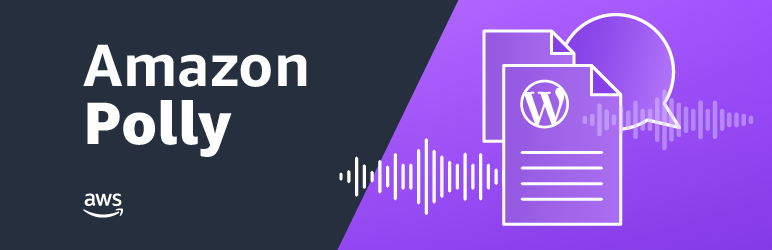
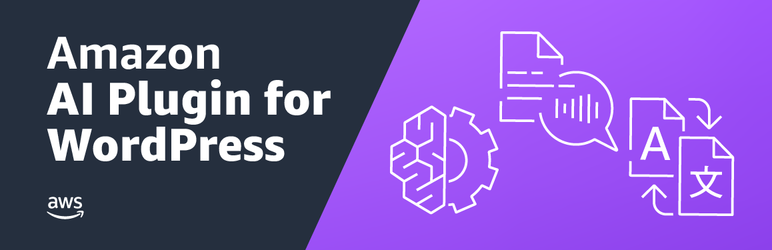
updated plugin `Amazon AI` version 2.6.3

Changed region(s): [[0.3731, 0.0, 0.9948, 1.0], [0.0622, 0.14, 0.4352, 0.644], [0.0622, 0.756, 0.1554, 0.896]]

diff --git a/wp-content/plugins/amazon-polly/public/css/amazonpolly-public.css b/wp-content/plugins/amazon-polly/public/css/amazonpolly-public.css
@@ -32,6 +32,9 @@ font-family: "Arial", Helvetica, sans-serif;
 font-size: .6em;
 text-align: right;
 }
+#amazon-polly-subscribe-tab {
+text-align: right;
+}
 #amazon-polly-trans-src {
 	font-weight: bold;
 }

diff --git a/wp-content/plugins/amazon-polly/public/class-amazonpolly-public.php b/wp-content/plugins/amazon-polly/public/class-amazonpolly-public.php
@@ -166,12 +166,16 @@ class Amazonpolly_Public {
 						}
 					}
 
+					$subscribe_part = $this->get_subscribe_part();
+
+
 					$polly_content = '
 					<table id="amazon-polly-audio-table">
 						<tr>
 						<td id="amazon-polly-audio-tab">
 							<div id="amazon-ai-player-label">' . $player_label . '</div>
 							' . $audio_part . '
+							<div id="amazon-polly-subscribe-tab">' . $subscribe_part . '</div>
 							<div id="amazon-polly-by-tab">' . $voice_by_part . '</div>
 						</td>
 						</tr>
@@ -246,12 +250,17 @@ class Amazonpolly_Public {
 		$link = esc_url( add_query_arg( 'amazonai-language', $language ));
 
 		$display = $common->get_language_display( $language );
+		$translate_option_flag_button = '<div class="amazon-ai-flag"><a href="' . $link . '"><img src="https://d12ee1u74lotna.cloudfront.net/images/flags/' . $language . '.png" class="amazon-ai-flag-image" alt="' . $language . ' flag"></a></div>';
+		$translate_option_label_button = '<div class="amazon-polly-trans-label"><a href="' . $link . '">' . $common->get_language_label($language) . '&emsp;</a></div>';
 
 		if (strcmp("Flag", $display) === 0) {
-			return '<div class="amazon-ai-flag"><a href="' . $link . '"><img src="https://d12ee1u74lotna.cloudfront.net/images/flags/' . $language . '.png" class="amazon-ai-flag-image" alt="' . $language . ' flag"></a></div>';
+			return $translate_option_flag_button;
+		} elseif (strcmp("Label", $display) === 0) {
+			return $translate_option_label_button;
 		} else {
-			return '<div class="amazon-polly-trans-label"><a href="' . $link . '">' . $common->get_language_label($language) . '&emsp;</a></div>';
+			return $translate_option_flag_button . $translate_option_label_button;
 		}
+
 	}
 
 
@@ -271,13 +280,37 @@ class Amazonpolly_Public {
 			$new_audio_location = str_replace( '.mp3', $language_code . '.mp3', $audio_location );
 		}
 
+		$common = new AmazonAI_Common();
+		$controlsList = '';
+		if ( !$common->is_audio_download_enabled() ) {
+			$controlsList = ' controlsList="nodownload" ';
+		}
+
 		$response = '<div id="amazon-ai-player-container">
-			<audio class="amazon-ai-player" id="amazon-ai-player" preload="none" controls ' . $autoplay . '>
+			<audio class="amazon-ai-player" id="amazon-ai-player" preload="none" controls ' . $autoplay . ' ' . $controlsList . '>
 				<source type="audio/mpeg" src="' . $new_audio_location . '">
 			</audio>
 		</div>';
 
 		return $response;
+	}
+
+	public function get_subscribe_part() {
+
+		$part = '';
+
+		$common = new AmazonAI_Common();
+		$is_subscribe_button_enabled = $common->is_subscribe_button_enabled();
+		if ($is_subscribe_button_enabled) {
+
+			$button_image = apply_filters('amazon_ai_subscribe_button_image', 'https://d12ee1u74lotna.cloudfront.net/images/subscribe_general.png');
+			$image = '<img src="' . $button_image . '" width="100" alt="Subscribe" >';
+			$link = esc_url($common->get_subscribe_link());
+
+			$part = '<a href="' . $link . '" target="_blank" rel="noopener noreferrer">' . $image . '</a>';
+		}
+
+		return $part;
 	}
 
 

diff --git a/wp-content/plugins/amazon-polly/admin/AmazonAI-PodcastConfiguration.php b/wp-content/plugins/amazon-polly/admin/AmazonAI-PodcastConfiguration.php
@@ -56,6 +56,9 @@ class AmazonAI_PodcastConfiguration {
 				add_settings_field( 'amazon_polly_podcast_post_cat', __( 'Post categories:', 'amazonpolly' ), array( $this, 'podcast_post_cat_gui' ), 'amazon_ai_podcast', 'amazon_ai_podcast', array( 'label_for' => 'amazon_polly_podcast_post_cat' ) );
 				add_settings_field( 'amazon_polly_podcast_author', __( 'Author:', 'amazonpolly' ), array( $this, 'podcast_author_gui' ), 'amazon_ai_podcast', 'amazon_ai_podcast', array( 'label_for' => 'amazon_polly_podcast_author' ) );
 				add_settings_field( 'amazon_polly_podcast_https', __( 'Use HTTPS for audio files:', 'amazonpolly' ), array( $this, 'podcast_https_gui' ), 'amazon_ai_podcast', 'amazon_ai_podcast', array( 'label_for' => 'amazon_polly_podcast_https' ) );
+				add_settings_field( 'amazon_polly_podcast_button', __( 'Show subscribe button:', 'amazonpolly' ), array( $this, 'podcast_subscribe_button_gui' ), 'amazon_ai_podcast', 'amazon_ai_podcast', array( 'label_for' => 'amazon_polly_podcast_button' ) );
+				add_settings_field( 'amazon_polly_podcast_button_link', __( 'Subscribe link:', 'amazonpolly' ), array( $this, 'podcast_subscribe_button_link_gui' ), 'amazon_ai_podcast', 'amazon_ai_podcast', array( 'label_for' => 'amazon_polly_podcast_button_link' ) );
+
 
 				register_setting('amazon_ai_podcast', 'amazon_polly_podcast_email');
 				register_setting('amazon_ai_podcast', 'amazon_polly_podcast_category');
@@ -65,9 +68,23 @@ class AmazonAI_PodcastConfiguration {
 				register_setting('amazon_ai_podcast', 'amazon_polly_podcast_post_cat');
 				register_setting('amazon_ai_podcast', 'amazon_polly_podcast_author');
 				register_setting('amazon_ai_podcast', 'amazon_polly_podcast_https');
+				register_setting('amazon_ai_podcast', 'amazon_polly_podcast_button');
+				register_setting('amazon_ai_podcast', 'amazon_polly_podcast_button_link');
+
+
 			}
 		}
 
+		/**
+		 * Render input for deciding if subscribe button should be displayed
+		 *
+		 * @since  2.6.3
+		 */
+		public function podcast_subscribe_button_gui() {
+
+			echo '<input type="checkbox" name="amazon_polly_podcast_button" id="amazon_polly_podcast_button" ' . $this->common->checked_validator( 'amazon_polly_podcast_button' ) . '> ';
+
+		}
 
 		/**
 		 * Render the HTTPS podcast input.
@@ -78,6 +95,17 @@ class AmazonAI_PodcastConfiguration {
 
 			echo '<input type="checkbox" name="amazon_polly_podcast_https" id="amazon_polly_podcast_https" ' . $this->common->checked_validator( 'amazon_polly_podcast_https' ) . '> ';
 
+		}
+
+		/**
+		 * Render the possibility for specify author of the feed.
+		 *
+		 * @since  2.0.6
+		 */
+		public function podcast_subscribe_button_link_gui() {
+
+			$value = $this->common->get_subscribe_link();
+			echo '<input class="regular-text" name="amazon_polly_podcast_button_link" id="amazon_polly_podcast_button_link" value="' . esc_attr( $value ) . '"/>';
 		}
 
 		/**

diff --git a/wp-content/plugins/amazon-polly/admin/AmazonAI-TranslateConfiguration.php b/wp-content/plugins/amazon-polly/admin/AmazonAI-TranslateConfiguration.php
@@ -110,7 +110,7 @@ class AmazonAI_TranslateConfiguration
         }
 
         if ($src_lang == $lanuage) {
-            return;
+            //return;
         }
 
         $lan_option       = 'amazon_polly_trans_langs_' . $lanuage;
@@ -132,20 +132,22 @@ class AmazonAI_TranslateConfiguration
         echo '<td><input type="checkbox" name="' . $lan_option . '" id="' . $lan_option . '" ' . $this->common->check_if_language_is_checked($lanuage, $src_lang) . ' ' . $disabled . '>' . $language_name . ' </td><td>';
         $voice_id = get_option($lan_voice_option);
 
-        if ($this->common->is_audio_for_translations_enabled()) {
-          echo '&emsp;&emsp;Voice: <select name="' . $lan_voice_option . '" id="' . $lan_voice_option . '">';
-          foreach ($voice_list['Voices'] as $voice) {
-              if (strpos($voice['LanguageName'], $language_name) !== false) {
-                  echo '<option value="' . esc_attr($voice['Id']) . '" ';
-                  if (strcmp($voice_id, $voice['Id']) === 0) {
-                      echo 'selected="selected"';
-                  }
+        if ( $src_lang != $lanuage ) {
+          if ($this->common->is_audio_for_translations_enabled()) {
+            echo '&emsp;&emsp;Voice: <select name="' . $lan_voice_option . '" id="' . $lan_voice_option . '" ' . $disabled . '>';
+            foreach ($voice_list['Voices'] as $voice) {
+                if (strpos($voice['LanguageName'], $language_name) !== false) {
+                    echo '<option value="' . esc_attr($voice['Id']) . '" ';
+                    if (strcmp($voice_id, $voice['Id']) === 0) {
+                        echo 'selected="selected"';
+                    }
 
-                  echo '>' . esc_attr($voice['LanguageName']) . ' - ' . esc_attr($voice['Id']) . '</option>';
-              }
+                    echo '>' . esc_attr($voice['LanguageName']) . ' - ' . esc_attr($voice['Id']) . '</option>';
+                }
+            }
+
+            echo '</select>';
           }
-
-          echo '</select>';
         }
         echo '</td>';
 
@@ -153,7 +155,7 @@ class AmazonAI_TranslateConfiguration
 
 
         echo '<td>';
-        $display_values   = [ 'Flag', 'Label' ];
+        $display_values   = [ 'Flag', 'Label', 'Flag + Label' ];
 
         echo 'Display: <select name="' . $lan_display . '" id="' . $lan_display . '" >';
         foreach ( $display_values as $display_value ) {

diff --git a/wp-content/plugins/amazon-polly/admin/AmazonAI-PollyConfiguration.php b/wp-content/plugins/amazon-polly/admin/AmazonAI-PollyConfiguration.php
@@ -75,6 +75,7 @@ class AmazonAI_PollyConfiguration {
         			add_settings_field( 'amazon_polly_add_post_excerpt', __( 'Add post excerpt to audio:', 'amazonpolly' ), array( $this, 'add_post_excerpt_gui' ), 'amazon_ai_polly', 'amazon_ai_pollyadditional', array( 'label_for' => 'amazon_polly_add_post_excerpt' ) );
               add_settings_field( 'amazon_ai_medialibrary_enabled', __( 'Enable Media Library support:', 'amazonpolly' ), array( $this, 'medialibrary_enabled_gui' ), 'amazon_ai_polly', 'amazon_ai_pollyadditional', array( 'label_for' => 'amazon_ai_medialibrary_enabled' ) );
               add_settings_field( 'amazon_ai_skip_tags', __( 'Skip tags:', 'amazonpolly' ), array( $this, 'skiptags_gui' ), 'amazon_ai_polly', 'amazon_ai_pollyadditional', array( 'label_for' => 'amazon_ai_skip_tags' ) );
+              add_settings_field( 'amazon_ai_download_enabled', __( 'Enable download audio:', 'amazonpolly' ), array( $this, 'download_gui' ), 'amazon_ai_polly', 'amazon_ai_pollyadditional', array( 'label_for' => 'amazon_ai_download_enabled' ) );
 
         			//Registration
         			register_setting('amazon_ai_polly', 'amazon_polly_sample_rate');
@@ -94,6 +95,7 @@ class AmazonAI_PollyConfiguration {
         			register_setting('amazon_ai_polly', 'amazon_polly_add_post_excerpt');
               register_setting('amazon_ai_polly', 'amazon_ai_medialibrary_enabled');
               register_setting('amazon_ai_polly', 'amazon_ai_skip_tags');
+              register_setting('amazon_ai_polly', 'amazon_ai_download_enabled');
 
             }
           }
@@ -168,6 +170,15 @@ class AmazonAI_PollyConfiguration {
 			echo '<p class="description" for="amazon_polly_add_post_excerpt">If enabled, each audio file will have post excerpt at the beginning.</p>';
 
 	}
+
+
+  public function download_gui() {
+
+      echo '<input type="checkbox" name="amazon_ai_download_enabled" id="amazon_ai_download_enabled" ' . $this->common->checked_validator( 'amazon_ai_download_enabled' ) . '> ';
+      echo '<p class="description" for="amazon_polly_add_post_excerpt">If enabled, browser will show download button next to audio</p>';
+
+  }
+
 
 	/**
 	 * Render the Add post title to audio input.

diff --git a/wp-content/plugins/amazon-polly/amazonpolly.php b/wp-content/plugins/amazon-polly/amazonpolly.php
@@ -13,10 +13,10 @@
  * @package           Amazonpolly
  *
  * @wordpress-plugin
- * Plugin Name:       Amazon Polly
+ * Plugin Name:       Amazon AI
  * Plugin URI:        https://wordpress.org/plugins/amazon-polly/
  * Description:       Create audio version of your posts, translate them into other languages and create podcasts! Amazon Polly is a service that turns text into lifelike speech. With dozens of voices across a variety of languages, you can select the ideal voice and build engaging speech-enabled applications that work in many different countries. The Amazon Polly plugin for WordPress is a sample application that shows how WordPress creators can easily add Text-to-Speech capabilities to written content with Amazon Polly. You can generate an audio feed for text-based content and insert it into an embedded player to increase the accessibility of your WordPress site. The sample code also enables you to publish podcasts directly from your site and make them available for listeners in the form of podcasts. In addition, the plugin allows to translate your text from one language to another using Amazon Translate– which is a neural machine translation service that delivers fast, high-quality, and affordable language translation. Amazon Translate allows you to localize content - such as websites and applications - for international users, and to easily translate large volumes of text efficiently.
- * Version:           2.6.2
+ * Version:           2.6.3
  * Author:            AWS Labs, WP Engine
  * Author URI:        https://aws.amazon.com/
  * License:           GPL-3.0 ONLY

diff --git a/wp-content/plugins/amazon-polly/admin/AmazonAI-Common.php b/wp-content/plugins/amazon-polly/admin/AmazonAI-Common.php
@@ -52,6 +52,18 @@ class AmazonAI_Common
 		return $clean_content;
 	}
 
+	public function get_subscribe_link() {
+
+		$value = get_option( 'amazon_polly_podcast_button_link' );
+
+		if (empty($value)) {
+			$value = esc_attr( get_feed_link( 'amazon-pollycast' ) );
+		}
+
+		return esc_attr($value);
+
+	}
+
 
 	public function get_podcast_author() {
 
@@ -388,6 +400,15 @@ class AmazonAI_Common
 				return false;
 			}
 		}
+	}
+
+	public function is_audio_download_enabled() {
+			$value = $this->checked_validator('amazon_ai_download_enabled');
+			if ('checked' == trim($value)) {
+				return true;
+			} else {
+				return false;
+			}
 	}
 
 	/**
@@ -830,6 +851,24 @@ class AmazonAI_Common
 	}
 
 	/**
+	 * Checks if 'Show Subscribe button' is enabled.
+	 *
+	 * @since  2.6.3
+	 */
+	public function is_subscribe_button_enabled()
+	{
+		$value = get_option('amazon_polly_podcast_button');
+		if (empty($value)) {
+			$result = false;
+		}
+		else {
+			$result = true;
+		}
+
+		return $result;
+	}
+
+	/**
 	 * Checks if S3 storage is enabled.
 	 *
 	 * @since  1.0.7
@@ -1170,7 +1209,8 @@ class AmazonAI_Common
 
 	private function replace_images($clean_text) {
 
-		$new_clean_text = preg_replace('/<img.*?alt="(.*?)"[^\>]+>/', 'Image: $1.', $clean_text);
+		//$new_clean_text = preg_replace('/<img.*?alt="(.*?)"[^\>]+>/', 'Image: $1.', $clean_text);
+		$new_clean_text = preg_replace('/<img.*?alt="(.*?)"[^\>]+>/', '$1.', $clean_text);
 
 		return $new_clean_text;
 

diff --git a/wp-content/plugins/amazon-polly/admin/AmazonAI-GeneralConfiguration.php b/wp-content/plugins/amazon-polly/admin/AmazonAI-GeneralConfiguration.php
@@ -17,7 +17,7 @@ class AmazonAI_GeneralConfiguration
 
     public function amazon_ai_add_menu()
     {
-        $this->plugin_screen_hook_suffix = add_menu_page(__('Amazon Polly', 'amazon-ai'), __('Amazon Polly', 'amazon-ai'), 'manage_options', 'amazon_ai', array(
+        $this->plugin_screen_hook_suffix = add_menu_page(__('Amazon AI', 'amazon-ai'), __('Amazon AI', 'amazon-ai'), 'manage_options', 'amazon_ai', array(
             $this,
             'amazonai_gui'
         ), '
@@ -38,7 +38,7 @@ class AmazonAI_GeneralConfiguration
 ?>
 				 <div class="wrap">
 				 <div id="icon-options-general" class="icon32"></div>
-				 <h1>Amazon Polly</h1>
+				 <h1>Amazon AI</h1>
 				 <form method="post" action="options.php">
 						 <?php
 

diff --git a/wp-content/plugins/amazon-polly/includes/class-amazonpolly-pollycast.php b/wp-content/plugins/amazon-polly/includes/class-amazonpolly-pollycast.php
@@ -136,7 +136,6 @@ class Amazonpolly_PollyCast {
 		} else {
 			$site_image = plugins_url() . '/' . plugin_basename( dirname( dirname( __FILE__ ) ) ) . '/img/amazon-polly-logo.jpg';
 		}
-		$site_image = str_replace( 'https://', 'http://', $site_image );
 
 		return $site_image;
 	}

diff --git a/wp-content/plugins/amazon-polly/README.md b/wp-content/plugins/amazon-polly/README.md
@@ -5,20 +5,20 @@
 | Tags | AWS, Amazon Web Services, WP Engine, Cloud, Text-to-Speech, Amazon Polly, Amazon Translate, Translate, Translation, Podcast, AI |
 | Requires at least | 3.0.1 |
 | Requires PHP | 5.6 |
-| Tested up to | 4.9 |
-| Stable tag | 2.6.2 |
+| Tested up to | 5.0 |
+| Stable tag | 2.6.3 |
 | License | GPLv3 ONLY |
 | License URI | https://www.gnu.org/licenses/gpl-3.0.html |
 
 
 ## Description
 
-Create audio of your posts, translate them into other languages and create podcasts! Amazon Polly is a service that turns text into lifelike speech. With dozens of voices across a variety of languages, you can select the ideal voice and build engaging speech-enabled applications that work in many different countries. The Amazon Polly plugin for WordPress is a sample application that shows how WordPress creators can easily add Text-to-Speech capabilities to written content with Amazon Polly. You can generate an audio feed for text-based content and insert it into an embedded player to increase the accessibility of your WordPress site. The sample code also enables you to publish podcasts directly from your site and make them available for listeners in the form of podcasts. In addition, the plugin allows to translate your text from one language to another using Amazon Translate– which is a neural machine translation service that delivers fast, high-quality, and affordable language translation. Amazon Translate allows you to localize content - such as websites and applications - for international users, and to easily translate large volumes of text efficiently.
+Create audio of your posts, translate them into other languages and create podcasts! Amazon Polly is a service that turns text into lifelike speech. With dozens of voices across a variety of languages, you can select the ideal voice and build engaging speech-enabled applications that work in many different countries. The Amazon AI plugin for WordPress is a sample application that shows how WordPress creators can easily add Text-to-Speech capabilities to written content with Amazon Polly. You can generate an audio feed for text-based content and insert it into an embedded player to increase the accessibility of your WordPress site. The sample code also enables you to publish podcasts directly from your site and make them available for listeners in the form of podcasts. In addition, the plugin allows to translate your text from one language to another using Amazon Translate– which is a neural machine translation service that delivers fast, high-quality, and affordable language translation. Amazon Translate allows you to localize content - such as websites and applications - for international users, and to easily translate large volumes of text efficiently.
 
 ## Installation
 
 1. Install this plugin from the ‘Add new Plugin’ option from your WordPress installation.
-2. After you install (and activate) the plugin, go to the ‘Amazon Polly’ and ‘General’ tab in your WordPress admin interface and configure the settings for your plugin. You will need to have the Access Key and Secret Key to your own AWS account in order to finish the configuration of the plugin - you can find instructions about obtaining those below.
+2. After you install (and activate) the plugin, go to the ‘Amazon AI’ and ‘General’ tab in your WordPress admin interface and configure the settings for your plugin. You will need to have the Access Key and Secret Key to your own AWS account in order to finish the configuration of the plugin - you can find instructions about obtaining those below.
 2.1 If you deployed WordPress on EC2, you can also use the IAM Roles functionality for the pluin - in this case you won’t need to provide the keys on the configuration page. For more details please visit: http://docs.aws.amazon.com/AWSEC2/latest/UserGuide/iam-roles-for-amazon-ec2.html.
 
 ## Configuration
@@ -187,7 +187,7 @@ No. All audio files are being preserved. Depending on your configuration, they w
 
 Amazon Polly itself support multiple SSML tags (You can find more about them here: https://docs.aws.amazon.com/polly/latest/dg/ssml.html).
 
-The Amazon Polly Plugin currently supports only the <break> SSML tag (you can find more about it at this page: https://docs.aws.amazon.com/polly/latest/dg/supported-ssml.html).
+The Amazon AI Plugin currently supports only the <break> SSML tag (you can find more about it at this page: https://docs.aws.amazon.com/polly/latest/dg/supported-ssml.html).
 
 To use SSML tags, you will need to enable Amazon S3 as the storage location for your files and enable SSML support in the plugin configuration page. In the wizard for creating a new WordPress post, you will be able to add ssml tags. An example of content with the SSML break tag is:
 
@@ -233,20 +233,13 @@ Pronunciation lexicons enable you to customize the pronunciation of words. In th
 1. The view of the configuration settings page for the plugin.
 2. When generating text-based content, the user can also produce a voiced version of the same content by activating Amazon Polly.
 3. After activation of the plugin, each voiced section will have its own play button, which will allow the end user to listen to the content.
-#### Q: What is "Audio Only" functionality?
-
-If you want to add something to the audio but you don't want to display it in the browser, you use the -AMAZONPOLLY-ONLYAUDIO- tag. For example:
-
--AMAZONPOLLY-ONLYAUDIO-START-
-
-[Text that will be read by the plugin but not shown in the browser.]
-
--AMAZONPOLLY-ONLYAUDIO-END-
-
-Important: Text will be shown in transcript if translate functionality is enabled, even if it was marked as "Audio Only".
-
 
 #### Changelog
+
+= 2.6.3 =
+* Added possibility to specify combination of label and flag to be displayed with translations.
+* Added possibility to add 'Subscribe' Button on the page
+* Added possibility to disable 'download' button for audio files.
 
 = 2.6.2 =
 * Added possibility to specify tags, which won't be read (for example 'audio'). This option is available under 'Text-To-Speech' tab as 'Skip tags' option.
